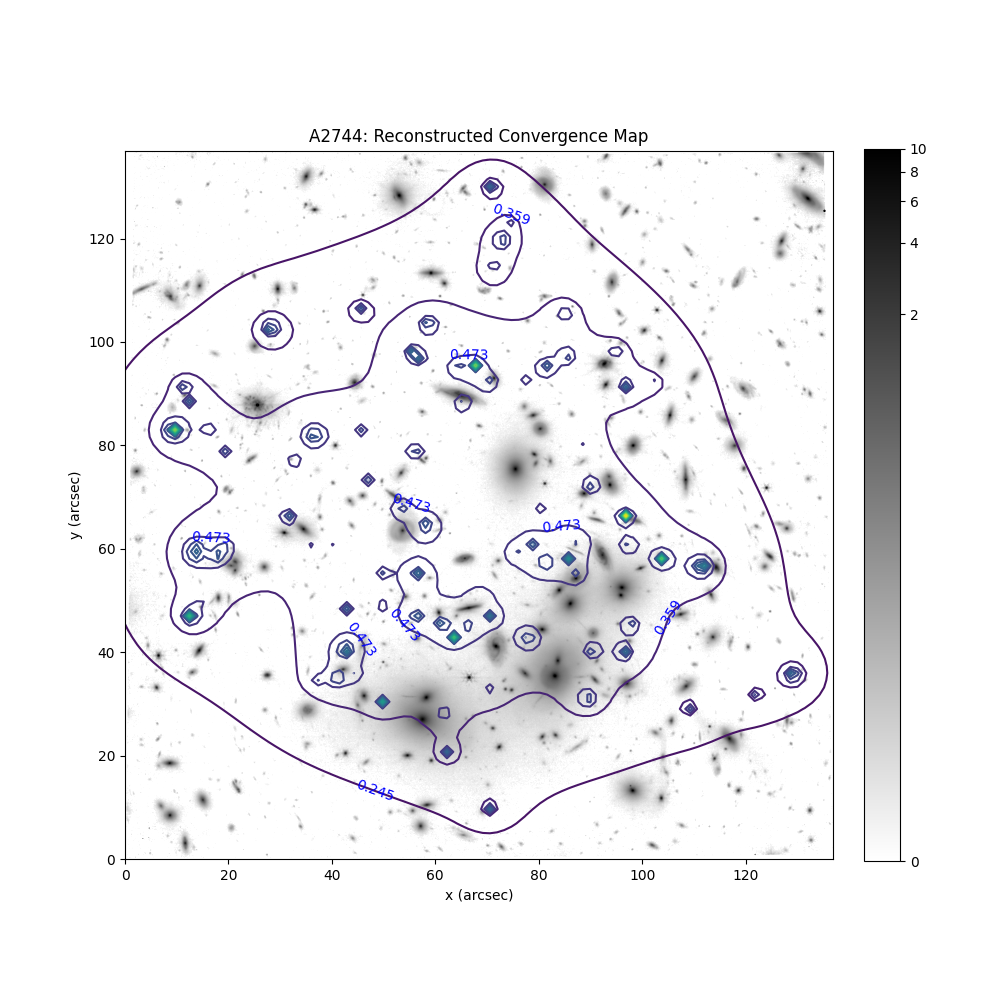
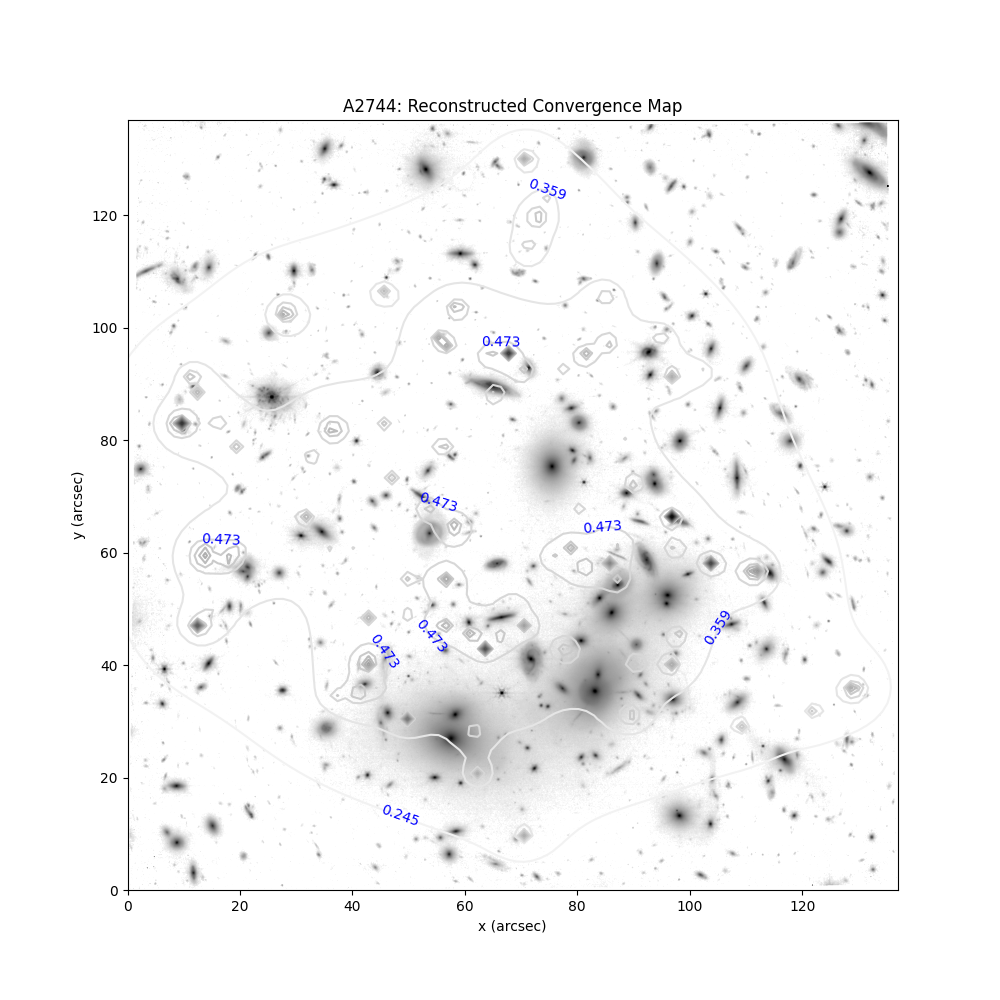
Improved presentation of overlap contour images

diff --git a/test_pipeline.py b/test_pipeline.py
@@ -312,10 +312,11 @@ def overlay_real_img(image_path:str, ax, conv:np.ndarray, nlevels:int=7) -> None
     extent = [0, fsize.to(unit).value, 0, fsize.to(unit).value] # to display appropriate frame size in matplotlib window
 
     im = ax.imshow(img['SCI'].data, norm=norm, origin='lower', cmap='gray_r', extent=extent) # plot the science image
-    contours = ax.contour(X, Y, conv, levels, linestyles='solid') # plot contours
+    contours = ax.contour(X, Y, conv, levels, cmap='gray_r', linestyles='solid') # plot contours
     ax.clabel(contours, inline=False, colors='blue') # attaches label to each contour
-    colorbar = plt.colorbar(im, ax=ax, orientation='vertical', fraction=0.046, pad=0.04) # add colorbar
+    # colorbar = plt.colorbar(im, ax=ax, orientation='vertical', fraction=0.046, pad=0.04) # add colorbar
 
+    return None
 
 
 if __name__ == '__main__':
@@ -326,11 +327,17 @@ if __name__ == '__main__':
 
     warnings.filterwarnings("ignore", category=RuntimeWarning)
 
-    lenses, sources, xmax, chi2 = reconstruct_system('a2744_clu_lenser.csv', flags=True)
+    # lenses, sources, xmax, chi2 = reconstruct_system('a2744_clu_lenser.csv', flags=True)
 
-    # Store the results
-    np.save('Data//a2744_clu_lenses', lenses)
-    np.save('Data//a2744_clu_sources', sources)
+    # Save the class objects so that we can replot without having to rerun the code
+    # np.save('Data//a2744_lenses', np.array([lenses.x, lenses.y, lenses.te, lenses.chi2]))
+    # np.save('Data//a2744_sources', np.array([sources.x, sources.y, sources.e1, sources.e2, sources.f1, sources.f2, sources.sigs, sources.sigf]))
+
+    
+    # Put code here for loading our saved class objects
+    lenses = pipeline.Lens(*np.load('Data//a2744_lenses.npy'))
+    sources = pipeline.Source(*np.load('Data//a2744_sources.npy'))
+    chi2 = lenses.update_chi2_values(sources)
 
     # Generate a convergence map of the lensing field, spanning the range of the sources
     x = np.linspace(min(sources.x)-20, max(sources.x)+20, 100)
@@ -338,11 +345,16 @@ if __name__ == '__main__':
 
     X, Y = np.meshgrid(x, y)
     kappa = np.zeros_like(X)
-    for i in range(len(x)):
-        for j in range(len(y)):
-            for k in range(len(lenses.x)):
-                r = np.sqrt((x[i] - lenses.x[k])**2 + (y[j] - lenses.y[k])**2)
-                kappa[j, i] += lenses.te[k] / (2 * r)
+    for k in range(len(lenses.x)):
+        r = np.sqrt((X - lenses.x[k])**2 + (Y - lenses.y[k])**2)
+        kappa += lenses.te[k] / (2 * r)
+
+    plt.figure()
+    plt.imshow(np.log(kappa), origin='lower')
+    plt.colorbar()
+    plt.savefig('Images//abel//a2744_kappa.png')
+    plt.show()
+    # raise SystemExit
 
     fig, ax = plt.subplots(figsize=(10, 10))
     ax.set_xlabel('x (arcsec)')
